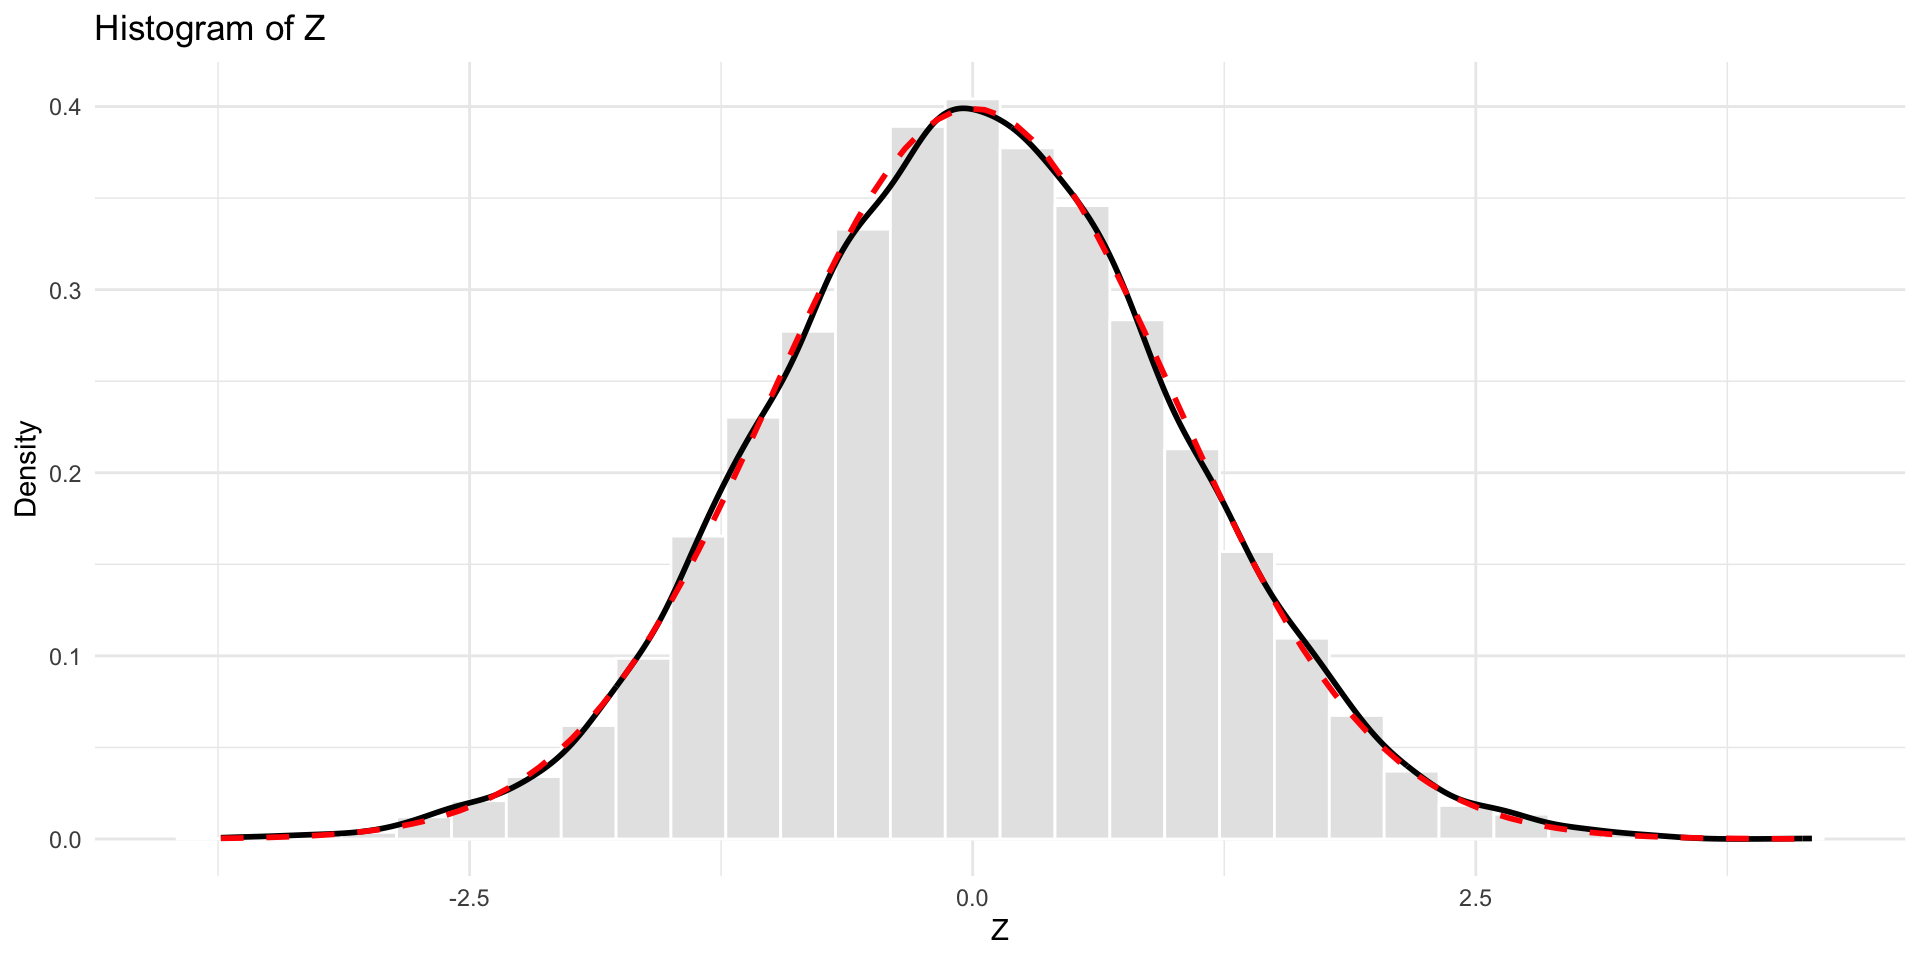
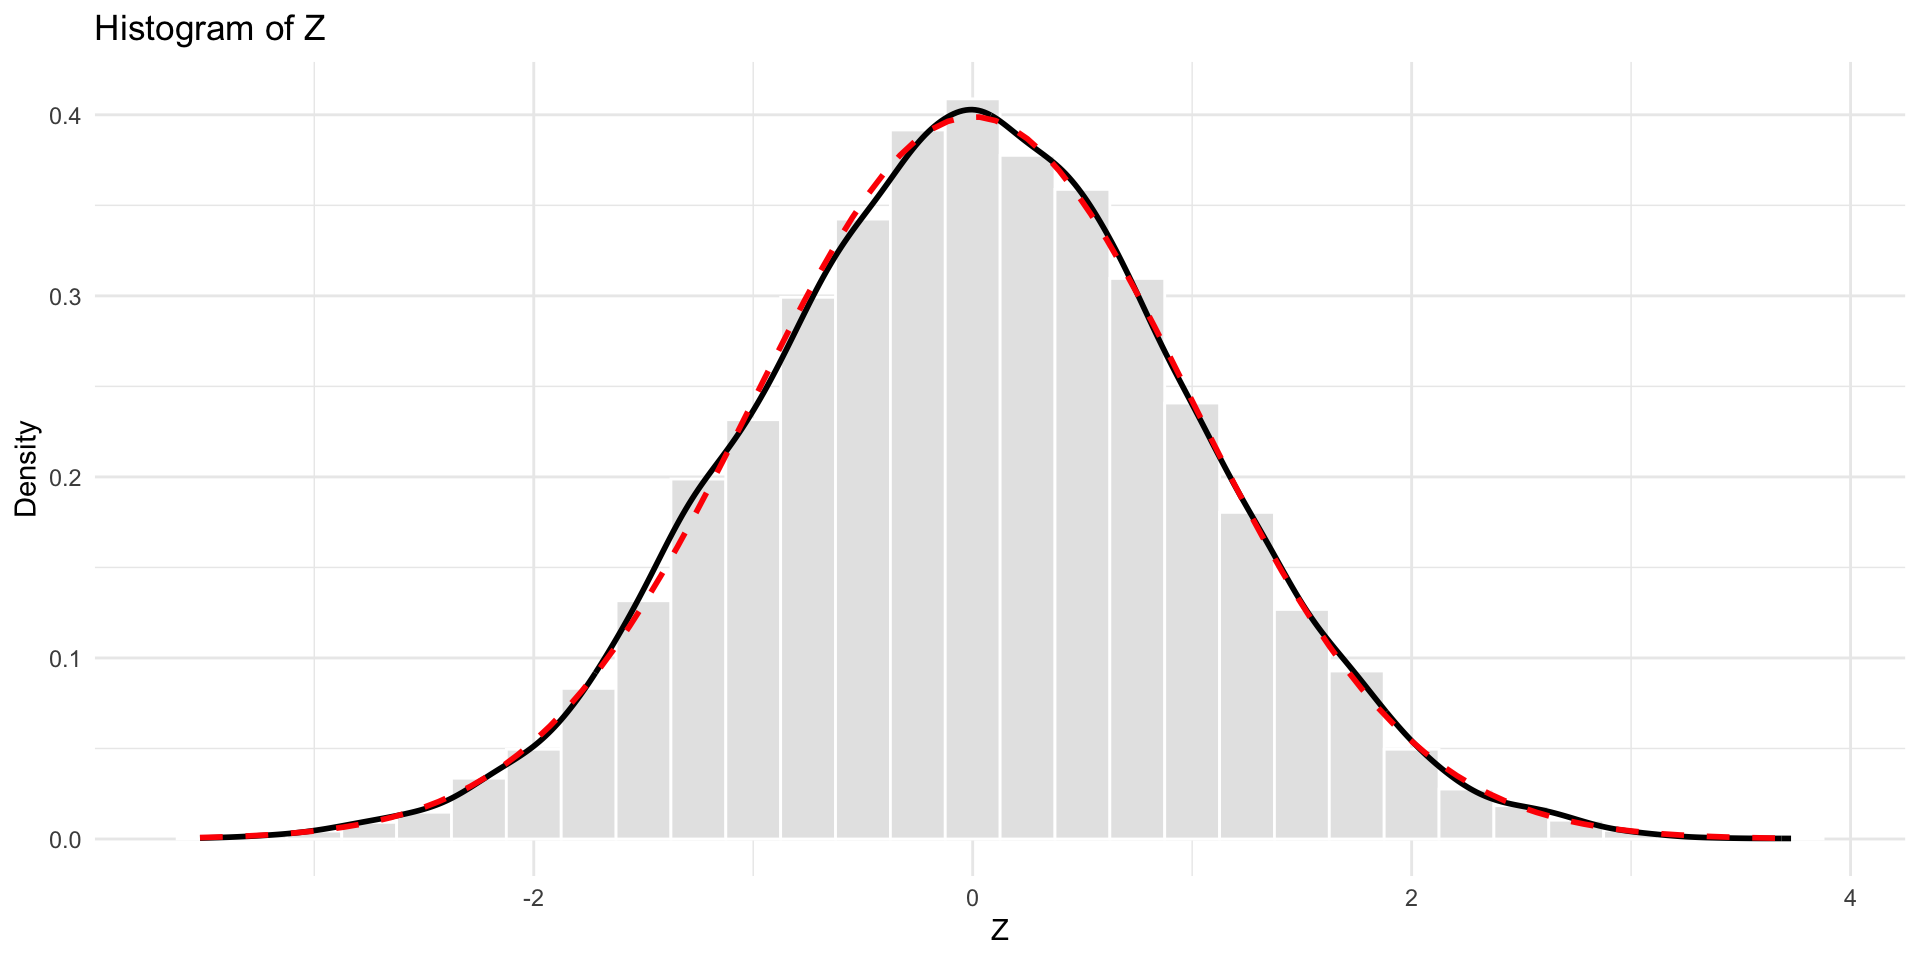
Update slides

Changed region(s): [[0.0312, 0.0938, 0.9688, 0.875], [0.0312, 0.25, 0.4375, 0.875], [0.4375, 0.1562, 0.4688, 0.25]]

diff --git a/docs/unit1-lect3.html b/docs/unit1-lect3.html
@@ -272,22 +272,21 @@
 <div class="code-copy-outer-scaffold"><div class="sourceCode cell-code" id="cb1"><pre class="sourceCode numberSource r number-lines code-with-copy"><code class="sourceCode r"><span id="cb1-1"><a></a>U<span class="ot">&lt;-</span><span class="fu">runif</span>(<span class="dv">10000</span>, <span class="dv">0</span>,<span class="dv">1</span>)</span>
 <span id="cb1-2"><a></a><span class="fu">head</span>(U, <span class="dv">25</span>)</span></code></pre></div><button title="Copy to Clipboard" class="code-copy-button"><i class="bi"></i></button></div>
 <div class="cell-output cell-output-stdout">
-<pre><code> [1] 0.504326570 0.113498505 0.961038024 0.450375820 0.538245423 0.973183250
- [7] 0.359388222 0.009312194 0.984039754 0.170743898 0.988286235 0.420227462
-[13] 0.837810664 0.483655169 0.700761970 0.866878424 0.876231237 0.131443363
-[19] 0.659489625 0.654707473 0.408902070 0.654969722 0.173329536 0.136097445
-[25] 0.924517927</code></pre>
+<pre><code> [1] 0.7516654 0.7550282 0.6794609 0.7243687 0.8472480 0.9834753 0.7419241
+ [8] 0.3148803 0.8193543 0.8630167 0.5155631 0.3711469 0.6978833 0.4830945
+[15] 0.6152632 0.9462419 0.9177134 0.5725926 0.3438755 0.1916295 0.1264009
+[22] 0.7358178 0.4734793 0.0273331 0.7214045</code></pre>
 </div>
 </div>
 <div class="cell">
 <div class="code-copy-outer-scaffold"><div class="sourceCode cell-code" id="cb3"><pre class="sourceCode numberSource r number-lines code-with-copy"><code class="sourceCode r"><span id="cb3-1"><a></a>Z<span class="ot">&lt;-</span><span class="fu">qnorm</span>(U, <span class="dv">0</span>, <span class="dv">1</span>)</span>
 <span id="cb3-2"><a></a><span class="fu">head</span>(Z, <span class="dv">25</span>)</span></code></pre></div><button title="Copy to Clipboard" class="code-copy-button"><i class="bi"></i></button></div>
 <div class="cell-output cell-output-stdout">
-<pre><code> [1]  0.01084532 -1.20813065  1.76286091 -0.12471190  0.09601438  1.92978486
- [7] -0.36009453 -2.35296498  2.14540486 -0.95122968  2.26638977 -0.20131161
-[13]  0.98549971 -0.04098188  0.52659328  1.11175582  1.15635122 -1.11959421
-[19]  0.41107062  0.39806123 -0.23037017  0.39877289 -0.94108935 -1.09802198
-[25]  1.43613424</code></pre>
+<pre><code> [1]  0.67973970  0.69039852  0.46619196  0.59586919  1.02470167  2.13148192
+ [7]  0.64928878 -0.48206391  0.91290696  1.09397333  0.03902088 -0.32881715
+[13]  0.51832225 -0.04238839  0.29306363  1.60945784  1.38985411  0.18297872
+[19] -0.40190886 -0.87190726 -1.14357065  0.63050463 -0.06652652 -1.92151988
+[25]  0.58701890</code></pre>
 </div>
 </div>
 </section>
@@ -365,12 +364,12 @@
 <span id="cb5-5"><a></a><span class="fu">prop.table</span>(<span class="fu">table</span>(Z1))[<span class="dv">2</span>]</span></code></pre></div><button title="Copy to Clipboard" class="code-copy-button"><i class="bi"></i></button></div>
 <div class="cell-output cell-output-stdout">
 <pre><code>     1 
-0.5069 </code></pre>
+0.4975 </code></pre>
 </div>
 <div class="code-copy-outer-scaffold"><div class="sourceCode cell-code" id="cb7"><pre class="sourceCode numberSource r number-lines code-with-copy"><code class="sourceCode r"><span id="cb7-1"><a></a><span class="fu">prop.table</span>(<span class="fu">table</span>(Z1, Z2), <span class="at">margin=</span><span class="dv">1</span>)[<span class="dv">2</span>, ]</span></code></pre></div><button title="Copy to Clipboard" class="code-copy-button"><i class="bi"></i></button></div>
 <div class="cell-output cell-output-stdout">
 <pre><code>        0         1 
-0.7539949 0.2460051 </code></pre>
+0.7449246 0.2550754 </code></pre>
 </div>
 </div>
 </section>
@@ -416,7 +415,7 @@ lm(formula = Z2 ~ Z1 + I(Z1^2))
 
 Coefficients:
 (Intercept)           Z1      I(Z1^2)  
-    -0.1757       0.5249       2.2002  </code></pre>
+    -0.2483       0.5120       2.0194  </code></pre>
 </div>
 </div>
 </section>
@@ -445,11 +444,11 @@ Coefficients:
 <span id="cb11-7"><a></a><span class="fu">coef</span>(fit)[<span class="st">"I(Z1^2)"</span>]</span></code></pre></div><button title="Copy to Clipboard" class="code-copy-button"><i class="bi"></i></button></div>
 <div class="cell-output cell-output-stdout">
 <pre><code> I(Z1^2) 
-2.200238 </code></pre>
+2.019383 </code></pre>
 </div>
 <div class="code-copy-outer-scaffold"><div class="sourceCode cell-code" id="cb13"><pre class="sourceCode numberSource r number-lines code-with-copy"><code class="sourceCode r"><span id="cb13-1"><a></a><span class="fu">summary</span>(fit)<span class="sc">$</span>coefficients[<span class="st">"I(Z1^2)"</span>, <span class="st">"Std. Error"</span>]</span></code></pre></div><button title="Copy to Clipboard" class="code-copy-button"><i class="bi"></i></button></div>
 <div class="cell-output cell-output-stdout">
-<pre><code>[1] 0.1476938</code></pre>
+<pre><code>[1] 0.0971504</code></pre>
 </div>
 </div>
 </section>
@@ -482,27 +481,27 @@ Coefficients:
 <span id="cb15-23"><a></a>}</span>
 <span id="cb15-24"><a></a><span class="fu">mean</span>(beta_0_hat <span class="sc">-</span> <span class="dv">0</span>)</span></code></pre></div><button title="Copy to Clipboard" class="code-copy-button"><i class="bi"></i></button></div>
 <div class="cell-output cell-output-stdout">
-<pre><code>[1] 0.0003684251</code></pre>
+<pre><code>[1] 0.002789423</code></pre>
 </div>
 <div class="code-copy-outer-scaffold"><div class="sourceCode cell-code" id="cb17"><pre class="sourceCode numberSource r number-lines code-with-copy"><code class="sourceCode r"><span id="cb17-1"><a></a><span class="fu">mean</span>(se_beta0<span class="sc">-</span><span class="fu">sd</span>(beta_0_hat))</span></code></pre></div><button title="Copy to Clipboard" class="code-copy-button"><i class="bi"></i></button></div>
 <div class="cell-output cell-output-stdout">
-<pre><code>[1] 0.0006084994</code></pre>
+<pre><code>[1] -0.002091661</code></pre>
 </div>
 <div class="code-copy-outer-scaffold"><div class="sourceCode cell-code" id="cb19"><pre class="sourceCode numberSource r number-lines code-with-copy"><code class="sourceCode r"><span id="cb19-1"><a></a><span class="fu">mean</span>(beta_1_hat <span class="sc">-</span> <span class="fl">0.5</span>)</span></code></pre></div><button title="Copy to Clipboard" class="code-copy-button"><i class="bi"></i></button></div>
 <div class="cell-output cell-output-stdout">
-<pre><code>[1] 2.285944e-05</code></pre>
+<pre><code>[1] -0.0001545926</code></pre>
 </div>
 <div class="code-copy-outer-scaffold"><div class="sourceCode cell-code" id="cb21"><pre class="sourceCode numberSource r number-lines code-with-copy"><code class="sourceCode r"><span id="cb21-1"><a></a><span class="fu">mean</span>(se_beta1<span class="sc">-</span><span class="fu">sd</span>(beta_1_hat))</span></code></pre></div><button title="Copy to Clipboard" class="code-copy-button"><i class="bi"></i></button></div>
 <div class="cell-output cell-output-stdout">
-<pre><code>[1] -0.005291932</code></pre>
+<pre><code>[1] -0.002606927</code></pre>
 </div>
 <div class="code-copy-outer-scaffold"><div class="sourceCode cell-code" id="cb23"><pre class="sourceCode numberSource r number-lines code-with-copy"><code class="sourceCode r"><span id="cb23-1"><a></a><span class="fu">mean</span>(beta_2_hat <span class="sc">-</span> <span class="dv">2</span>)</span></code></pre></div><button title="Copy to Clipboard" class="code-copy-button"><i class="bi"></i></button></div>
 <div class="cell-output cell-output-stdout">
-<pre><code>[1] -0.0005910731</code></pre>
+<pre><code>[1] -0.00212436</code></pre>
 </div>
 <div class="code-copy-outer-scaffold"><div class="sourceCode cell-code" id="cb25"><pre class="sourceCode numberSource r number-lines code-with-copy"><code class="sourceCode r"><span id="cb25-1"><a></a><span class="fu">mean</span>(se_beta2<span class="sc">-</span><span class="fu">sd</span>(beta_2_hat))</span></code></pre></div><button title="Copy to Clipboard" class="code-copy-button"><i class="bi"></i></button></div>
 <div class="cell-output cell-output-stdout">
-<pre><code>[1] -0.004055936</code></pre>
+<pre><code>[1] -0.003022693</code></pre>
 </div>
 </div>
 </section>
